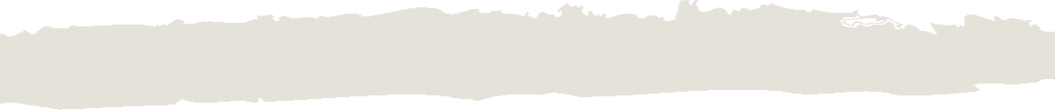
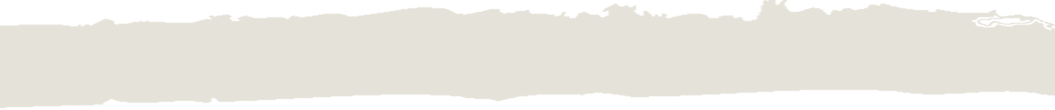
Nuevos divisores en Index

diff --git a/index.html b/index.html
@@ -170,7 +170,7 @@
         <!-- .container -->
         </section>
         <div class="divider-image">
-            <img src="assets/images/divisor-tiza.png" alt="Divider"/>
+            <img src="assets/images/divisor-tiza.png" alt="Divider" style="rotate: 180deg;"/>
         </div>
 
         <!-- End About Greenforest Section -->
@@ -557,7 +557,7 @@
     </section>
 
     <div class="divider-image">
-        <img src="assets/images/divisor-tiza.png" alt="Divider" style="rotate: 0.4deg;"/>
+        <img src="assets/images/divisor-tiza.png" alt="Divider" style="rotate: 180deg;"/>
     </div>
 
     <footer>

diff --git a/assets/css/style.css b/assets/css/style.css
@@ -1972,7 +1972,9 @@ section#reserva-natural {
   top: 100 !important;
 
   /* Ajuste fino si es necesario */
-  transform: translateY(-1rem); /* Puedes ajustar este valor según necesites */
+  transform: translateY(
+    -0.9rem
+  ); /* Puedes ajustar este valor según necesites */
   pointer-events: none; /* Evita interferencias con el scroll o clicks */
 }
 
